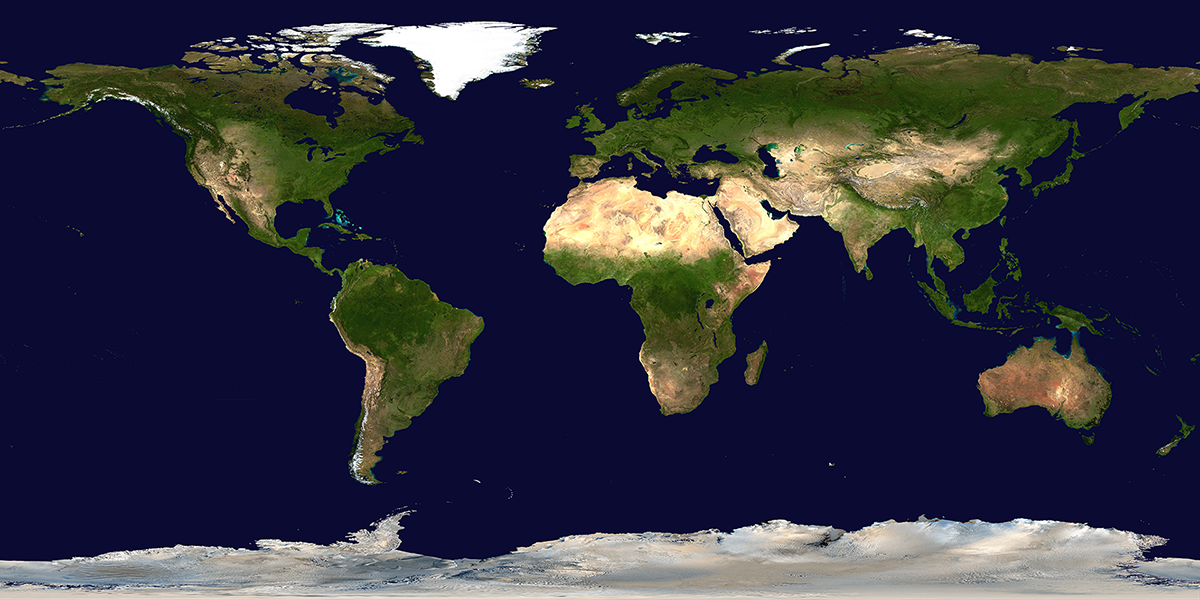
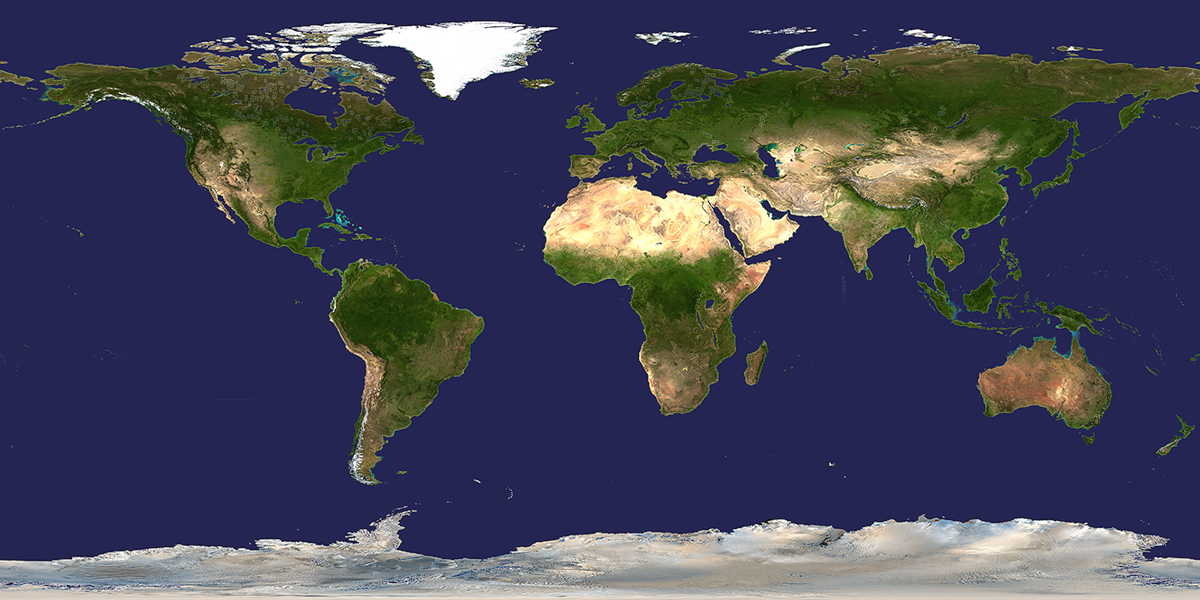
update colors

diff --git a/ui/css/app.css b/ui/css/app.css
@@ -1,12 +1,12 @@
 :root {
   --header-height: 40px;
-  --green: #2E7D32;
-  --red: #B71C1C;
-  --blue: #0277BD;
-  --orange: #E65100;
-  --violet: #512DA8;
-  --brown: #795548;
-  --gray: #455A64;
+  --green: #486B00;
+  --red: #A43820;
+  --blue: #336B87;
+  --orange: #BA5536;
+  --violet: #5D535E;
+  --brown: #805A3B;
+  --gray: #46464C;
   --light-gray: #CFD8DC;
 }
 
@@ -111,7 +111,7 @@ header {
 .map-highlight {
   position: absolute;
   width: 100%;
-  height: 0.5555555555555%;
+  height: 1.111111111111%;
   box-shadow: 0 0 0 50vh rgba(0,0,0,0.5);
 }
 .map-label {
@@ -121,6 +121,7 @@ header {
   line-height: 2rem;
   text-align: center;
   bottom: -2rem;
+  font-size: 2rem;
 }
 .map-label.below {
   bottom: auto;

diff --git a/ui/js/app.js b/ui/js/app.js
@@ -245,7 +245,7 @@ var App = (function() {
     this.$label.text(lat);
 
     // update map highlight
-    var top = lerp(0, 100-(100/180), scrollPercent);
+    var top = lerp(0, 100-(100/90), scrollPercent);
     this.$highlight.css("top", top+"%");
 
     // update bars
